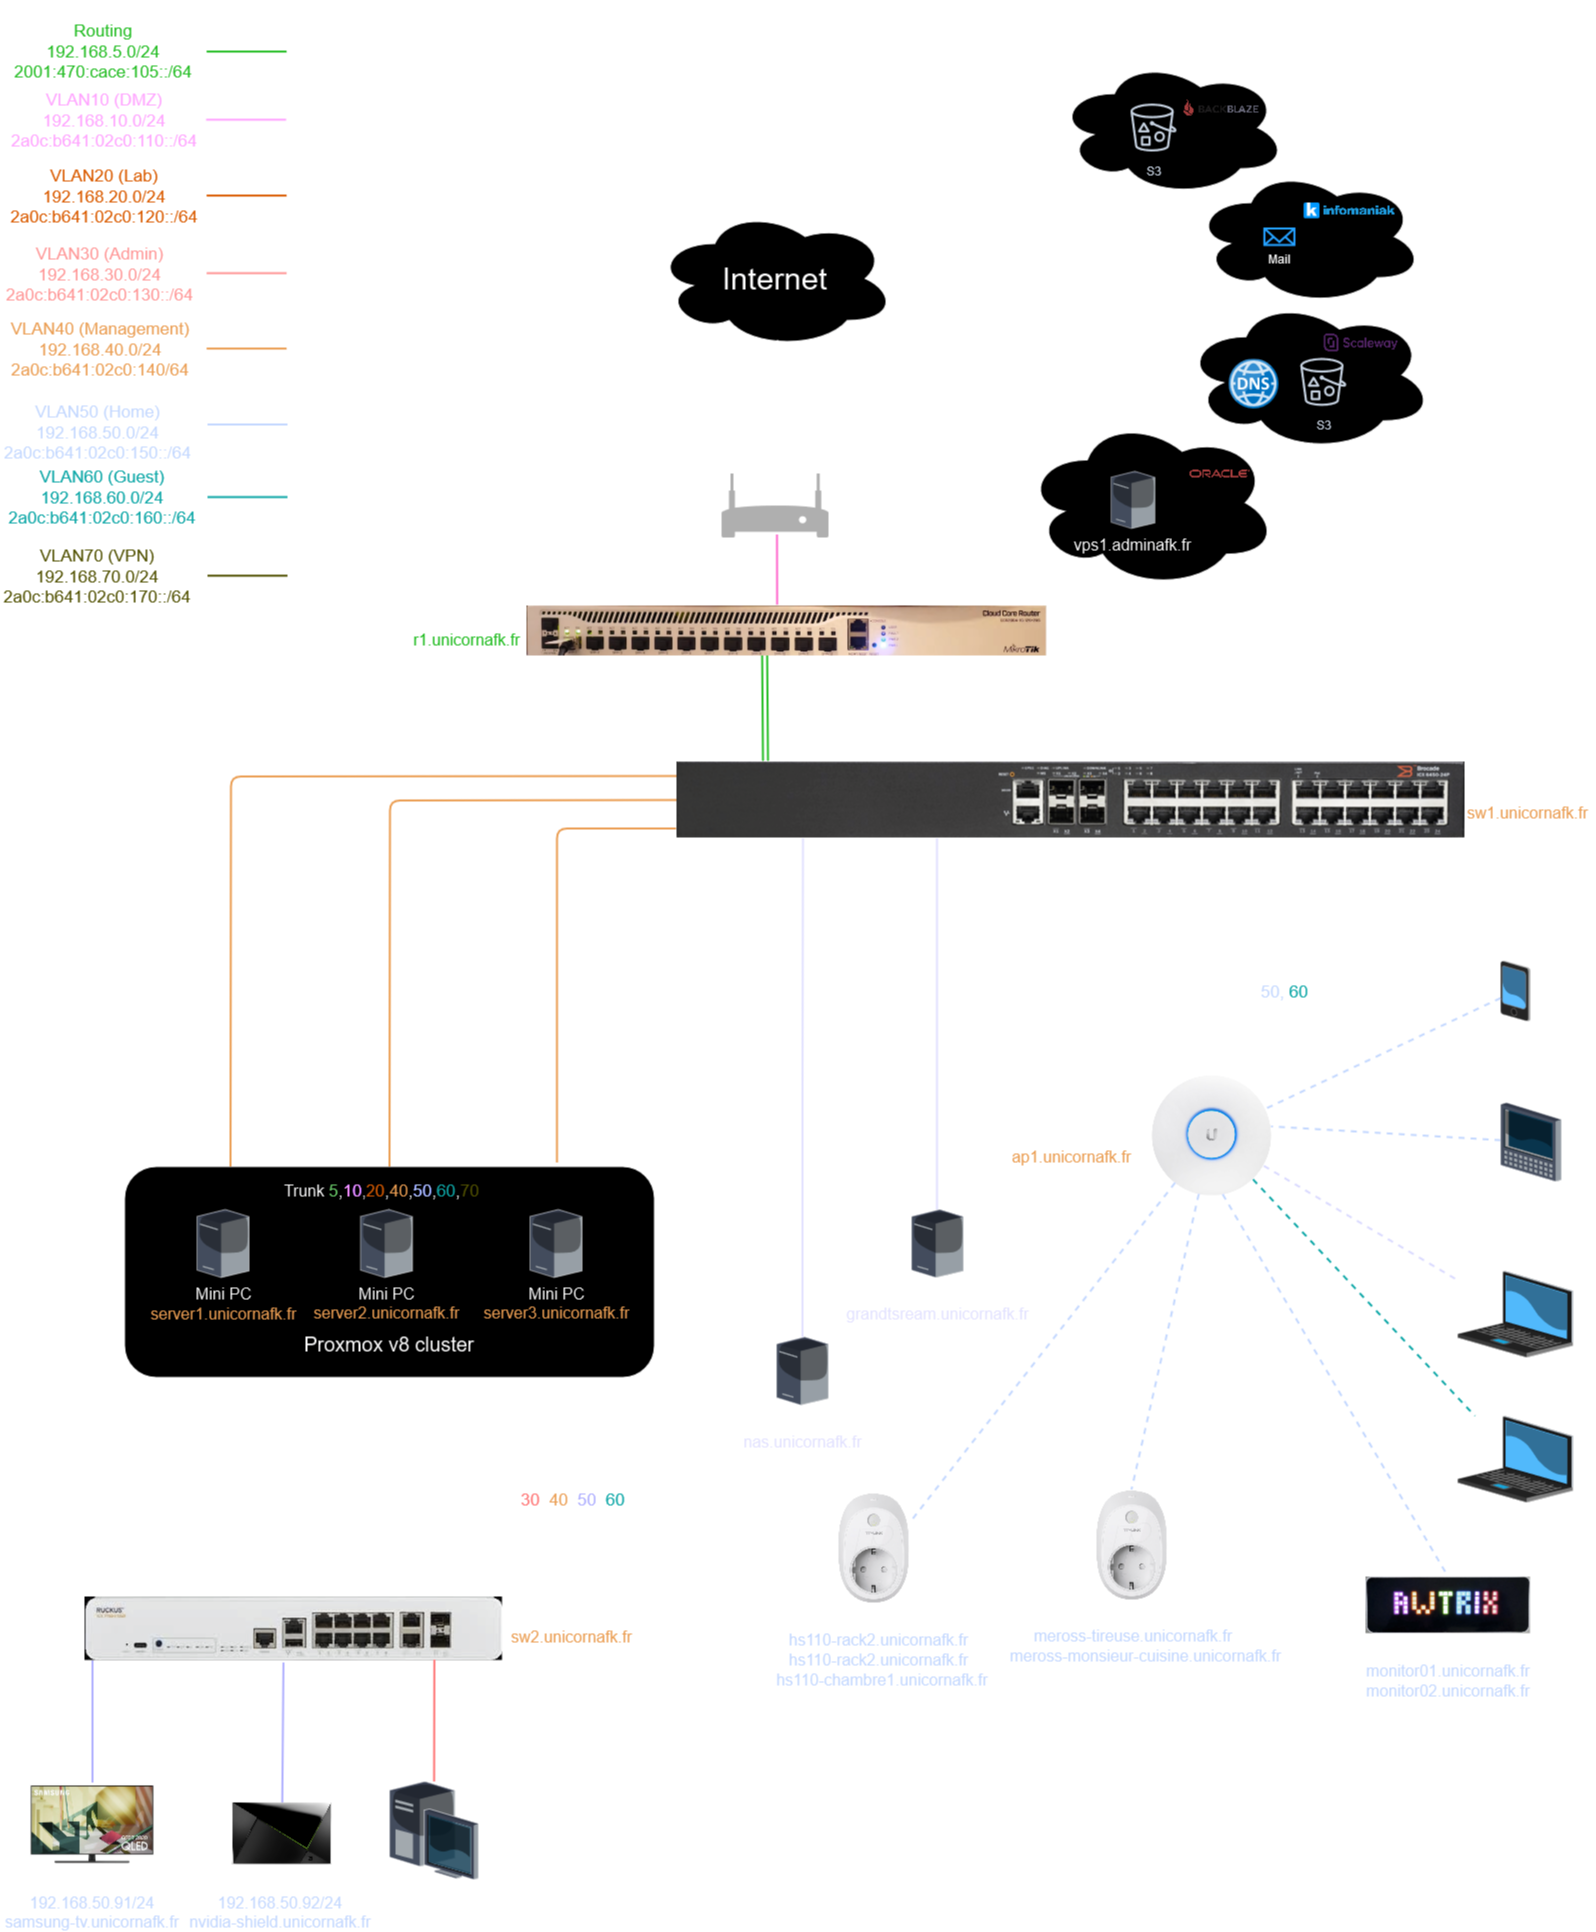
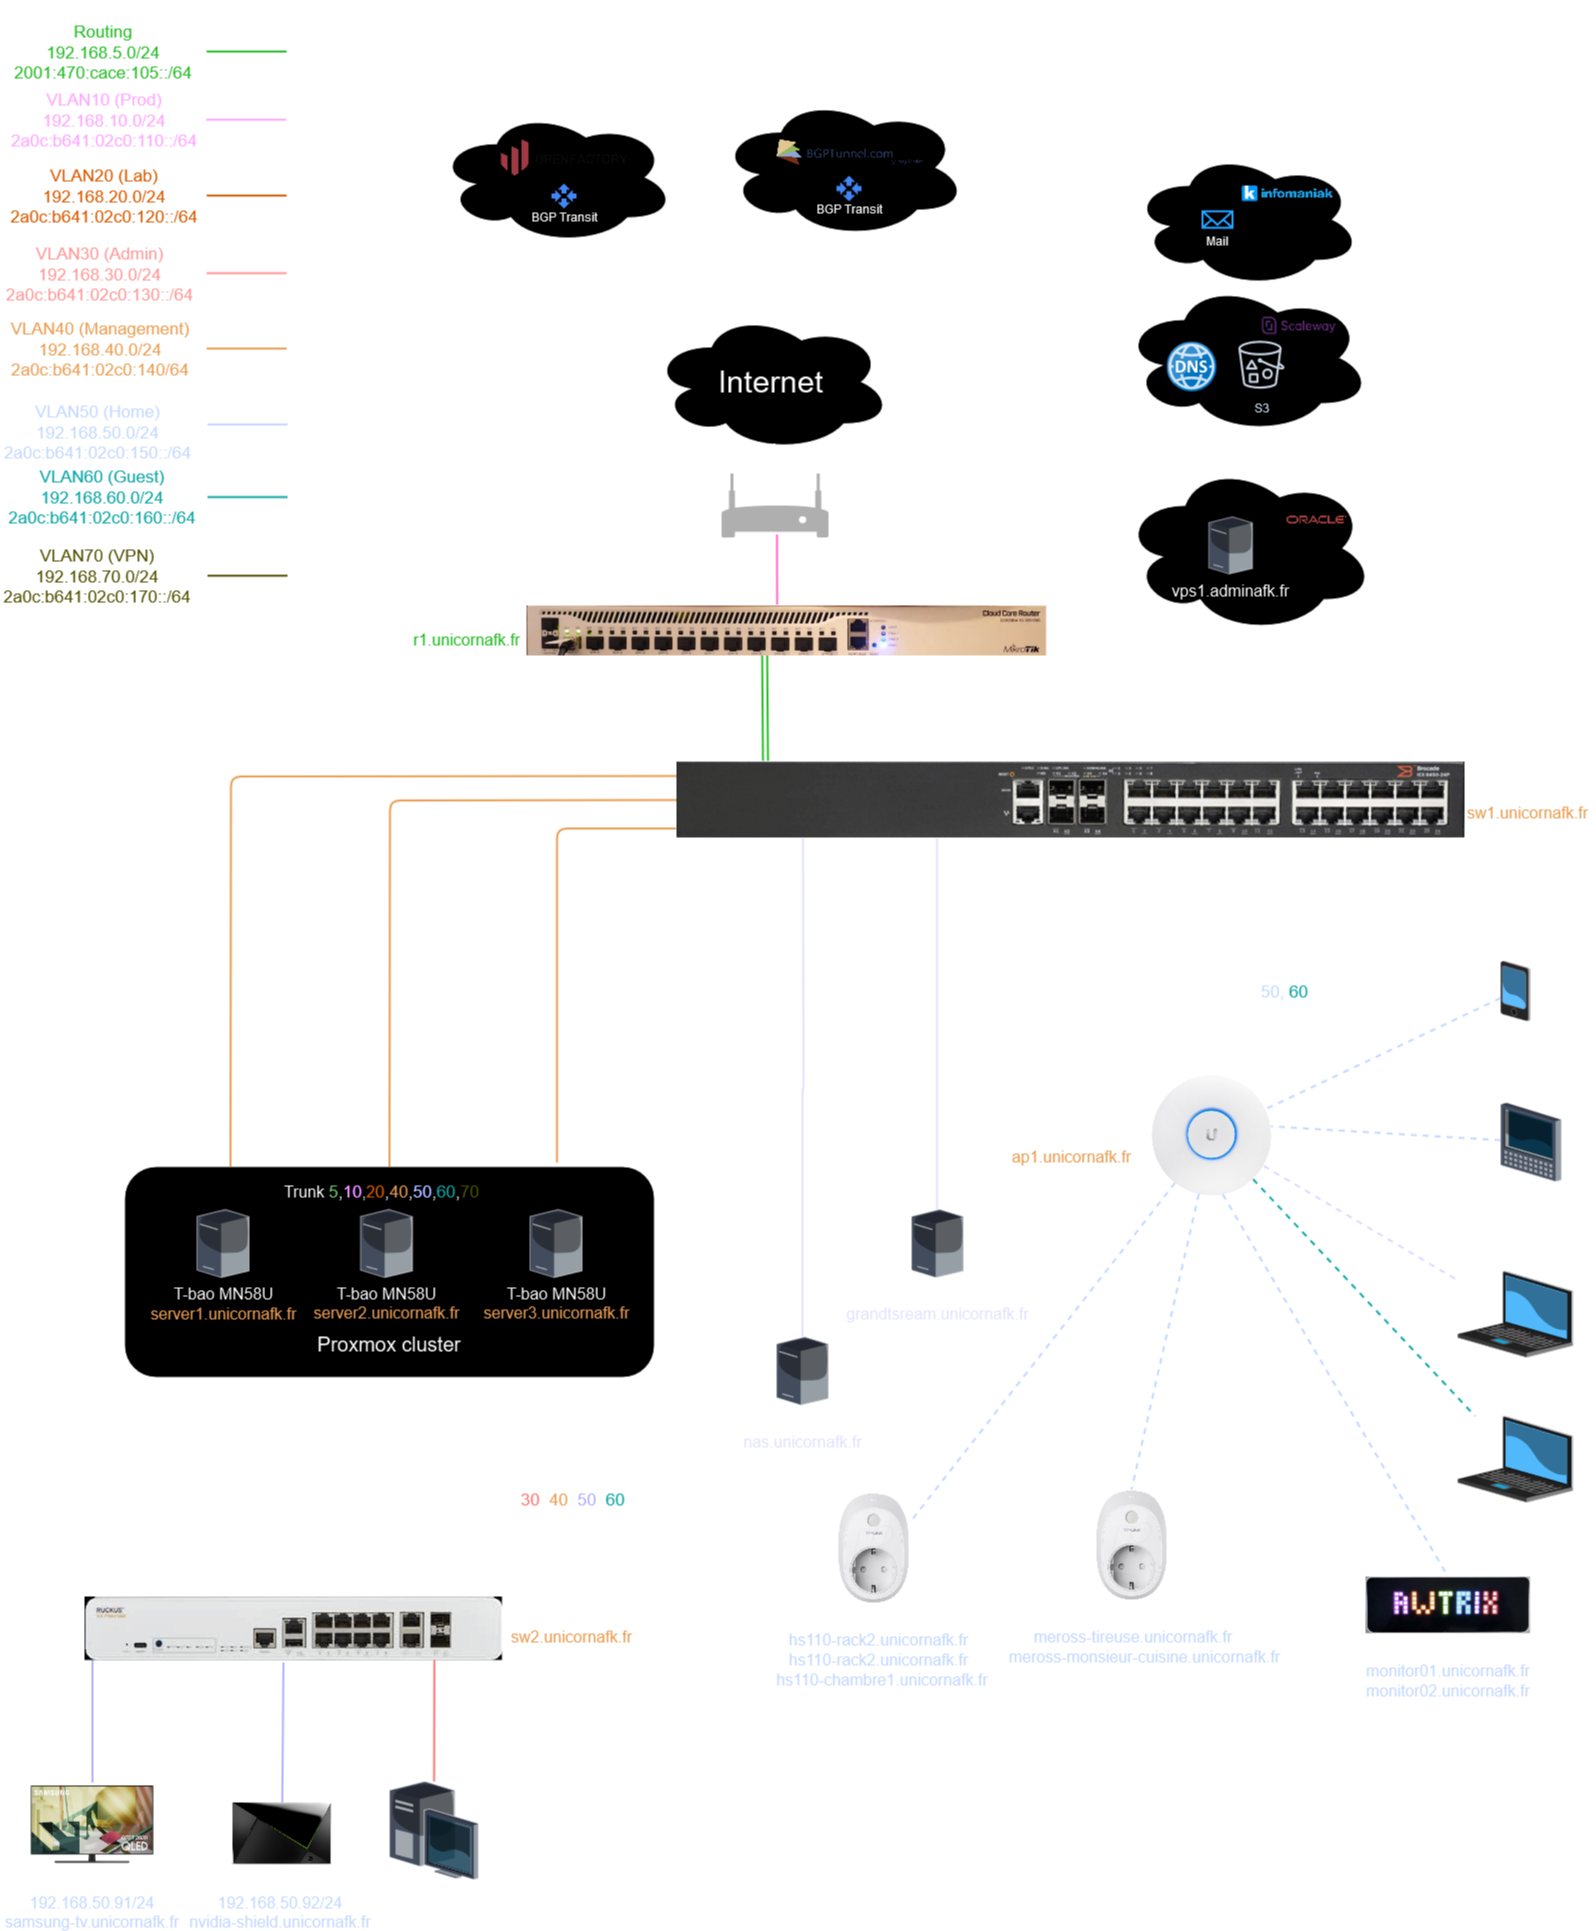
feat: update documentation motivation and architecture

diff --git a/docs/index.md b/docs/index.md
@@ -6,6 +6,8 @@ This is the third version of my homelab :rocket:
 ~~v2 : [Homelab-infra](https://github.com/M0NsTeRRR/Homelab-infra)~~  
 v3 : [homelabv3-infra](https://github.com/M0NsTeRRR/homelabv3-infra)
 
+To start, I would like to thank all maintainers and contributors to open source projects that make my lab possible ! 
+
 ## What are the key features
 
 - [x] Open source
@@ -25,12 +27,7 @@ v3 : [homelabv3-infra](https://github.com/M0NsTeRRR/homelabv3-infra)
 - Kubernetes :
     * [ ] Kubernetes node firewalling
     * [ ] Kubernetes policies rules
-- Documentation :
-    * [ ] Explain architecture
-    * [ ] Explain project motivation
-    * [ ] Explain project choice (applications, hardwares, providers)
 - Monitoring/Logging/Alerting :
-    * [x] Kubernetes cluster
     * [ ] Outside kubernetes services
     * [ ] Hypervisors
     * [ ] VM

diff --git a/docs/home/choices.md b/docs/home/choices.md
@@ -1,0 +1,19 @@
+# Choices
+
+On this page, I will explain some choices I made as an F.A.Q
+
+### Why do I use cloud services ?
+
+- Email system is a headhache (blacklist/whitelist etc...) and I don't want to invest time into it
+- Offsite backup (s3 buckets)
+- Disaster recovery, offsite monitoring
+
+### Why did I choose T-bao MN58U as a server ?
+I've replaced my old servers (R320, Homemade with R7 2700) to reduce electricity costs.
+This server uses only 15W to operate. It is small and doesn't make any noises, and it still has a pretty decent processor with 32Gb RAM.
+
+### Why I'm using cloud european services ?
+My conviction regarding GAFAM and GDPR.
+
+### Why do I have an Oracle VPS ?
+Because this VPS is completely Free with disk encryption otherwise I would have used probably Hetzner like in the past.

diff --git a/docs/home/architecture.md b/docs/home/architecture.md
@@ -1,4 +1,22 @@
 # Architecture
 
+### Networking
+I'm running my own AS for my IPv6 stack registered as [AS212510](https://as212510.net)  
+
+- [Openfactory](https://www.openfactory.net/) free BGP Tunnel, thanks to them :heart:
+- [iFog](https://bgptunnel.com/) free BGP Tunnel, thanks to them :heart:
+
+### Domains
+
+- as212510.net for my ASN
+- adminafk.fr for public services
+- unicornafk.fr for internal services
+
+### Cloud providers
+
+- [Scaleway](https://www.scaleway.com/en/) for S3 and domains
+- [Infomaniak](https://www.infomaniak.com/en) for emails
+- [Oracle](https://www.oracle.com/) for VPS
+
 ![Homelab diagram](../assets/architecture_light.png#only-light){ loading=lazy }
 ![Homelab diagram](../assets/architecture_dark.png#only-dark){ loading=lazy }
